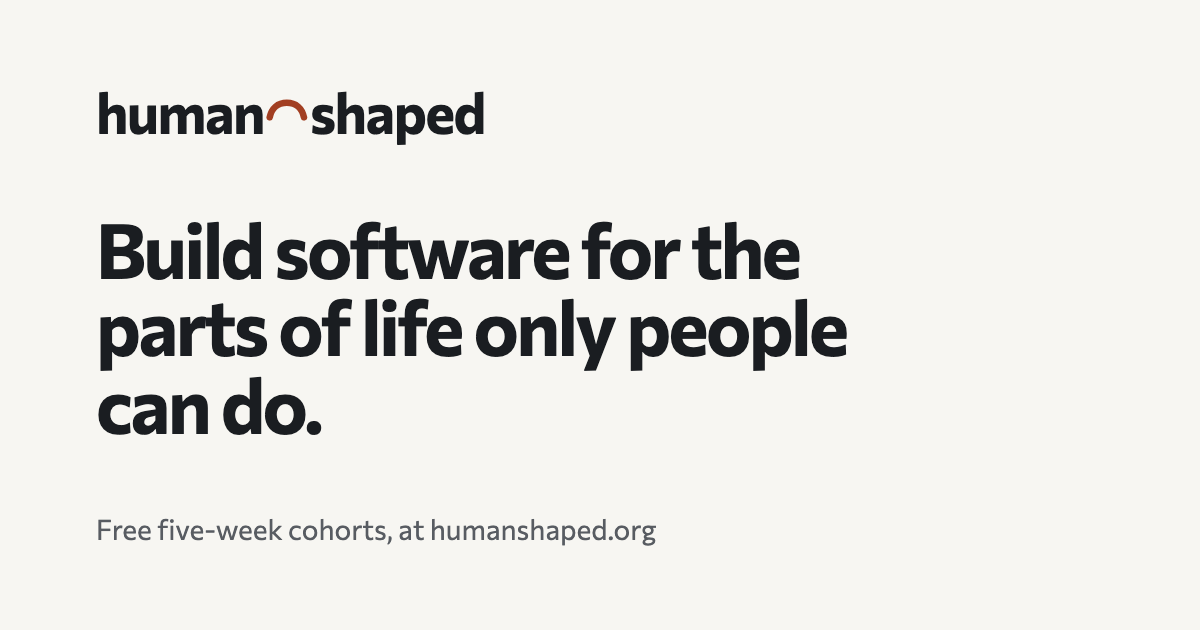
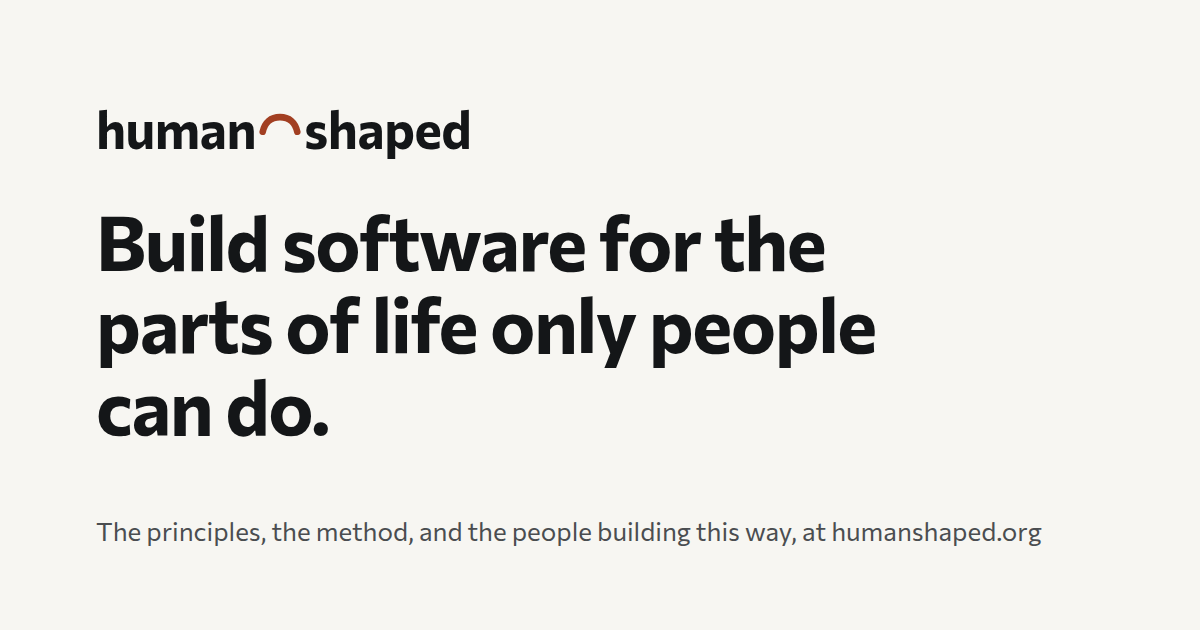
Social preview, sign-in notes, and the log for Ben's review
og.png now names the principles, the method, and the people rather than
cohorts, with its source in tools/og. CLAUDE.md says every sign-in goes
to /account/. LOOP-PLAN logs the October 5 review.

Claude-Session: https://claude.ai/code/session_011pRQwo3hMMWSvD6CLgej7X

diff --git a/tools/og/og.html b/tools/og/og.html
@@ -1,0 +1,13 @@
+<!-- The social preview, assets/og.png. Open at 1200 by 630 and take a screenshot (tools/og/README.md). -->
+<html><head><style>
+@font-face{font-family:C;src:url(https://fonts.gstatic.com/s/commissioner/v24/tDbe2o2WnlgI0FNDgduEk4jAhwgumbU1SVfU5BD8OuRL8OstC6KOhgvBYWSFJ-Mgdrgiju6fF8m0bkVQ.woff2)}
+body{margin:0;width:1200px;height:630px;background:#F7F6F2;font-family:C;color:#141618;position:relative}
+.wm{position:absolute;left:96px;top:96px;font-size:52px;font-weight:700;letter-spacing:-.01em;display:flex;align-items:baseline}
+.wm svg{width:44px;height:22px;margin:0 2px;transform:translateY(-14px)}
+h1{position:absolute;left:96px;top:200px;margin:0;font-size:76px;line-height:1.08;font-weight:700;letter-spacing:-.02em;width:860px}
+p{position:absolute;left:96px;bottom:84px;margin:0;font-size:26px;color:#4a4d50}
+</style></head><body>
+<div class="wm">human<svg viewBox="0 0 28 14"><path d="M3 12C4.2 6 8.2 2.6 14 2.6S23.8 6 25 12" fill="none" stroke="#A23F22" stroke-width="4.2" stroke-linecap="round"/></svg>shaped</div>
+<h1>Build software for the parts of life only people can do.</h1>
+<p>The principles, the method, and the people building this way, at humanshaped.org</p>
+</body></html>

diff --git a/LOOP-PLAN.md b/LOOP-PLAN.md
@@ -1165,12 +1165,34 @@ student).
   draw at once" failed 3 runs in 4 here. After: 12 of 12 full runs of
   tools/board/sync-check.mjs passed (25 checks each).
 
+- 2026-10-05, Ben's site review (twelve points, recorded as rules in
+  DECISIONS.md, "The site's voice and order, after Ben's review"). On
+  main: computer-shaped-problems.md now starts from Nilay Patel's
+  "software brain" and says why people write the film notes (Dead
+  Internet, Google Zero, "Humanity is inefficient, and that is the
+  point."); the three moves are Write, Play, Publish everywhere;
+  PRINCIPLES.md 0.5 has two marks, Aligned with and Endorsed by Human
+  Shaped, with no gatekeeper. On site: the home page leads with the
+  idea, the fifteen principles (read live from PRINCIPLES.md by
+  principles-lib.js), the method, and the apps; the cohorts page drops
+  the teaching pitch and the code-of-conduct line; visible "written by
+  Claude" notes became comments and first person left the pages that
+  were not Ben's own; every sign-in goes to /account/; the apps page
+  draws cards with covers from the directory (an `image` in a listing,
+  else GitHub's preview picture, else initials); new mark files
+  (assets/mark/aligned-*, endorsed-*), og.png redrawn (tools/og/). Every
+  standalone arch sits high in its frame. 332 node tests, 0 failing;
+  home, apps, cohorts, and start drawn at 375 and 1440, light and dark,
+  with no sideways scroll and no page errors.
+
 ## Handoff (October 4, 2026, evening)
 
 Merged and live: G1 to G7, H1 to H6, C0 to C9, R1 to R3, R4's pages, R5 to R8,
 Google sign-in beside GitHub, the listing materials, meet@'s script
 with its triggers, the community repository, and the credential
-signing key. 680 database checks, 326 node tests.
+signing key. 680 database checks, 332 node tests. Ben's October 5
+site review is done (see the log); its unverified parts are app covers
+loading from GitHub in production and the signed-in pages' new copy.
 
 R4, the question bank, is merged (see its log entry). Half of its
 database change is applied; **done on this Mac October 5: applied (all 680 policy tests passed first; its drops are a check, two rules, and a function, each recreated in the same file) and mcp redeployed; was: apply

diff --git a/CLAUDE.md b/CLAUDE.md
@@ -89,9 +89,8 @@ as Ben's without his review, $0 to run.
   DOMPurify. Links to other path files become this site's URLs; links
   to anything else in the repository go to GitHub. To give another
   template file a page here, add it to the `SITE` map in `render.js`.
-- The header's "Sign in with GitHub" goes to `/account/` on every page.
-  The home page's own sign-in buttons go to `/cohorts/#join`, where a
-  person chooses a cohort first.
+- Every "Sign in with GitHub" goes to `/account/`, which only signs a
+  person in. Joining a cohort starts on `/cohorts/`.
 - Mobile-first, `min-width` media queries, test at 375px before 1440px.
 - Accessible contrast: text on the orange `--color-primary` is dark.
 
@@ -144,7 +143,7 @@ what waits on Ben.
 - **Scripts:** `assets/hub-config.js` (public URL and publishable key),
   `hub.js`, `cohorts.js`, `teach.js` with `teach-lib.js`, `cohort.js` and `live.js`
   with `cohort-lib.js` and `live-lib.js`, and `apps.js` with `apps-lib.js`. Pure logic lives in the `-lib.js` files with
-  tests in `tools/test/` (`node --test tools/test/*.mjs`, 326 tests).
+  tests in `tools/test/` (`node --test tools/test/*.mjs`, 332 tests).
 - **The cohort's conversation:** `discussions.js` with `discussions-lib.js`
   reads and posts the cohort repository's GitHub Discussions on /cohort/
   and /live/ with the student's own GitHub token. That token is kept in

diff --git a/tools/og/README.md b/tools/og/README.md
@@ -1,0 +1,3 @@
+# The social preview
+
+`og.html` draws `assets/og.png`. Open it in a browser at 1200 by 630 pixels and save a screenshot over `assets/og.png`. If the font does not load, use Commissioner from Google Fonts at weight 700.
